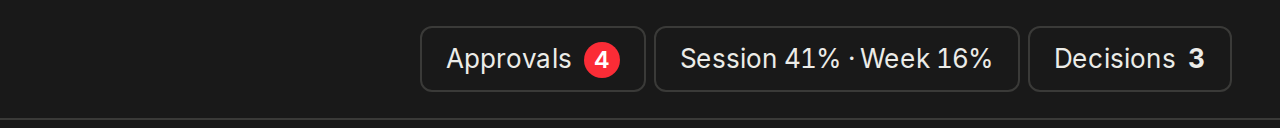
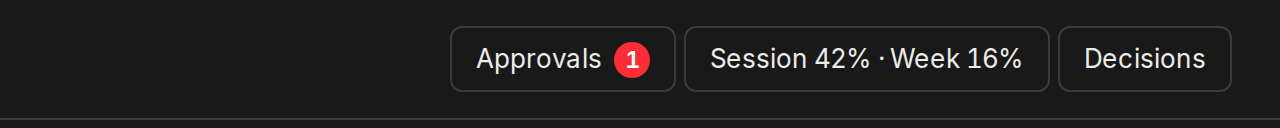
approvals-button: retake the README screenshot

diff --git a/README.md b/README.md
@@ -18,7 +18,7 @@ Claude subscription usage in the header, plus a limit that pauses the routines y
 
 An **Approvals** button in the header, with a flag showing how many are pending, because the app's menus don't link to that page.
 
-![The header in dark mode, with an Approvals button showing a red flag with the number 4 next to the usage and Decisions buttons](approvals-button/docs/approvals-button.png)
+![The header in dark mode, with an Approvals button showing a red flag with the number 1 next to the usage and Decisions buttons](approvals-button/docs/approvals-button.png)
 
 ## Setup
 

diff --git a/approvals-button/README.md b/approvals-button/README.md
@@ -4,7 +4,7 @@ A Paperclip plugin that adds an **Approvals** button to the header, with a flag 
 
 It only reads approvals. It can't approve or reject anything.
 
-![The header in dark mode, with an Approvals button showing a red flag with the number 4 next to the usage and Decisions buttons](docs/approvals-button.png)
+![The header in dark mode, with an Approvals button showing a red flag with the number 1 next to the usage and Decisions buttons](docs/approvals-button.png)
 
 ## Development
 
